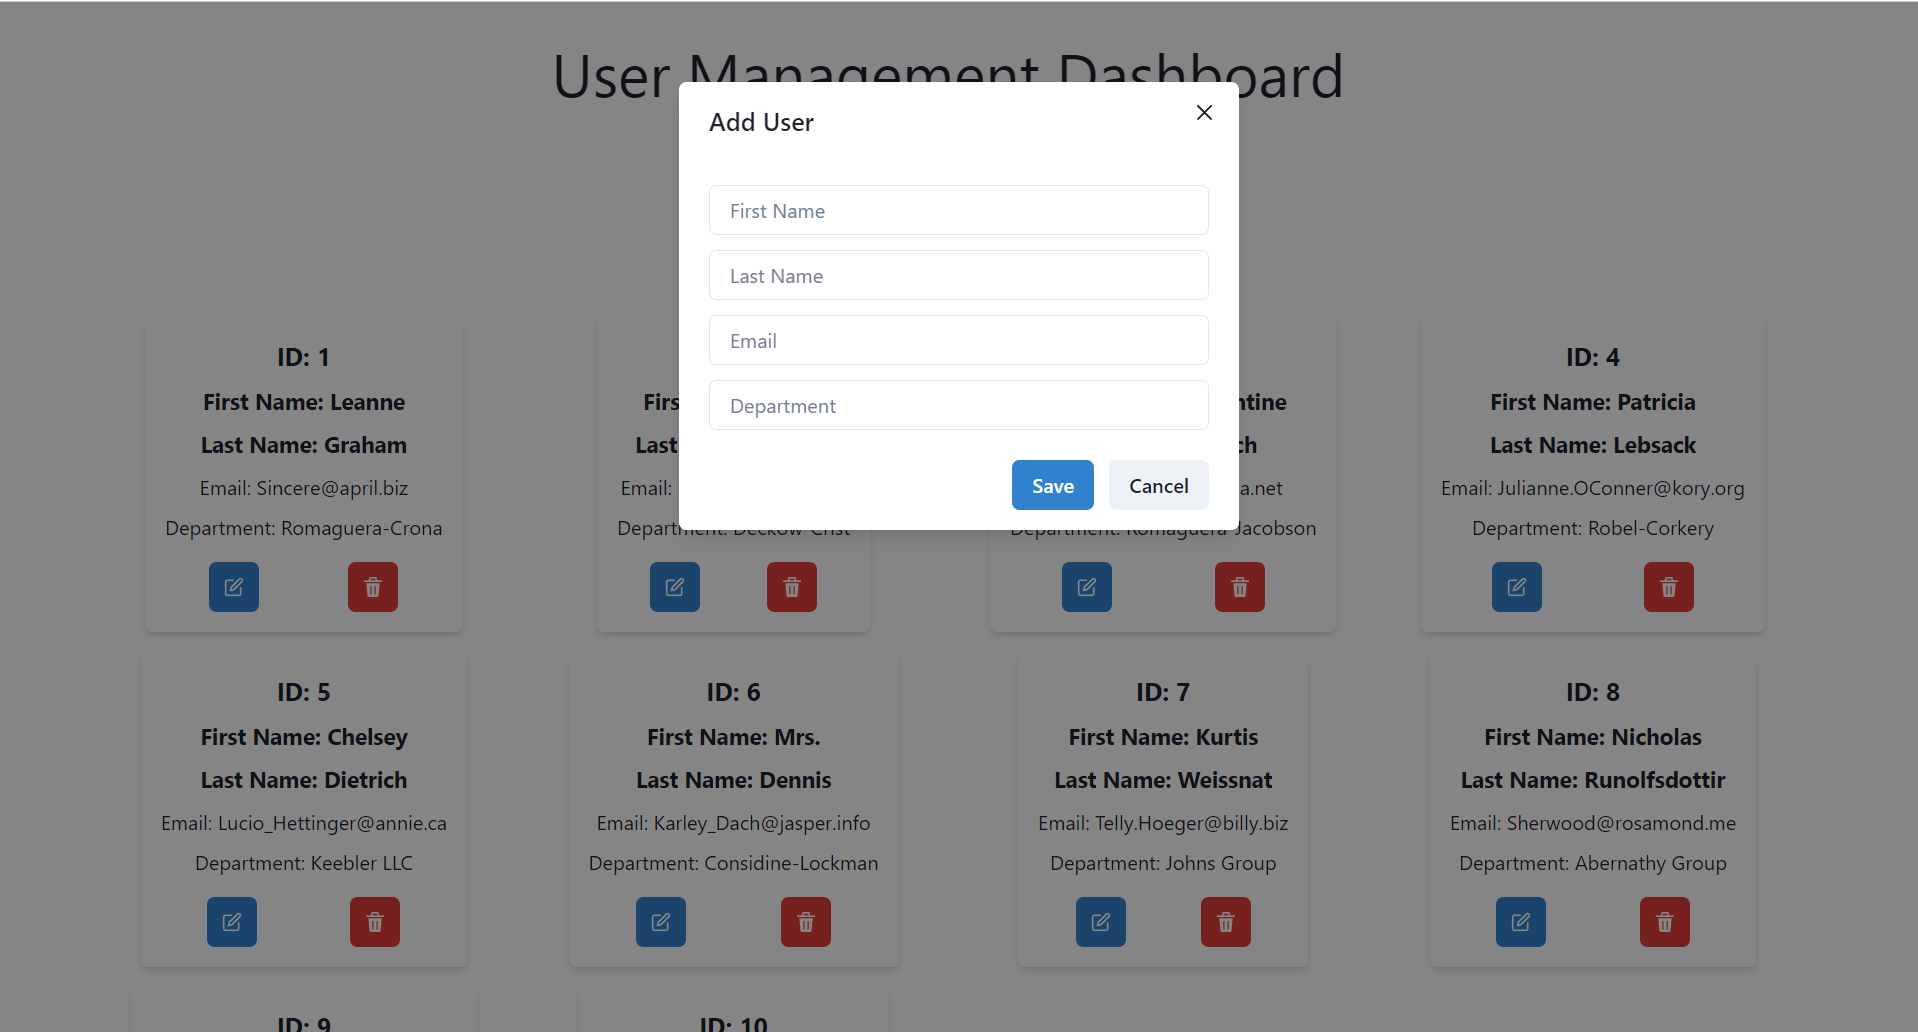
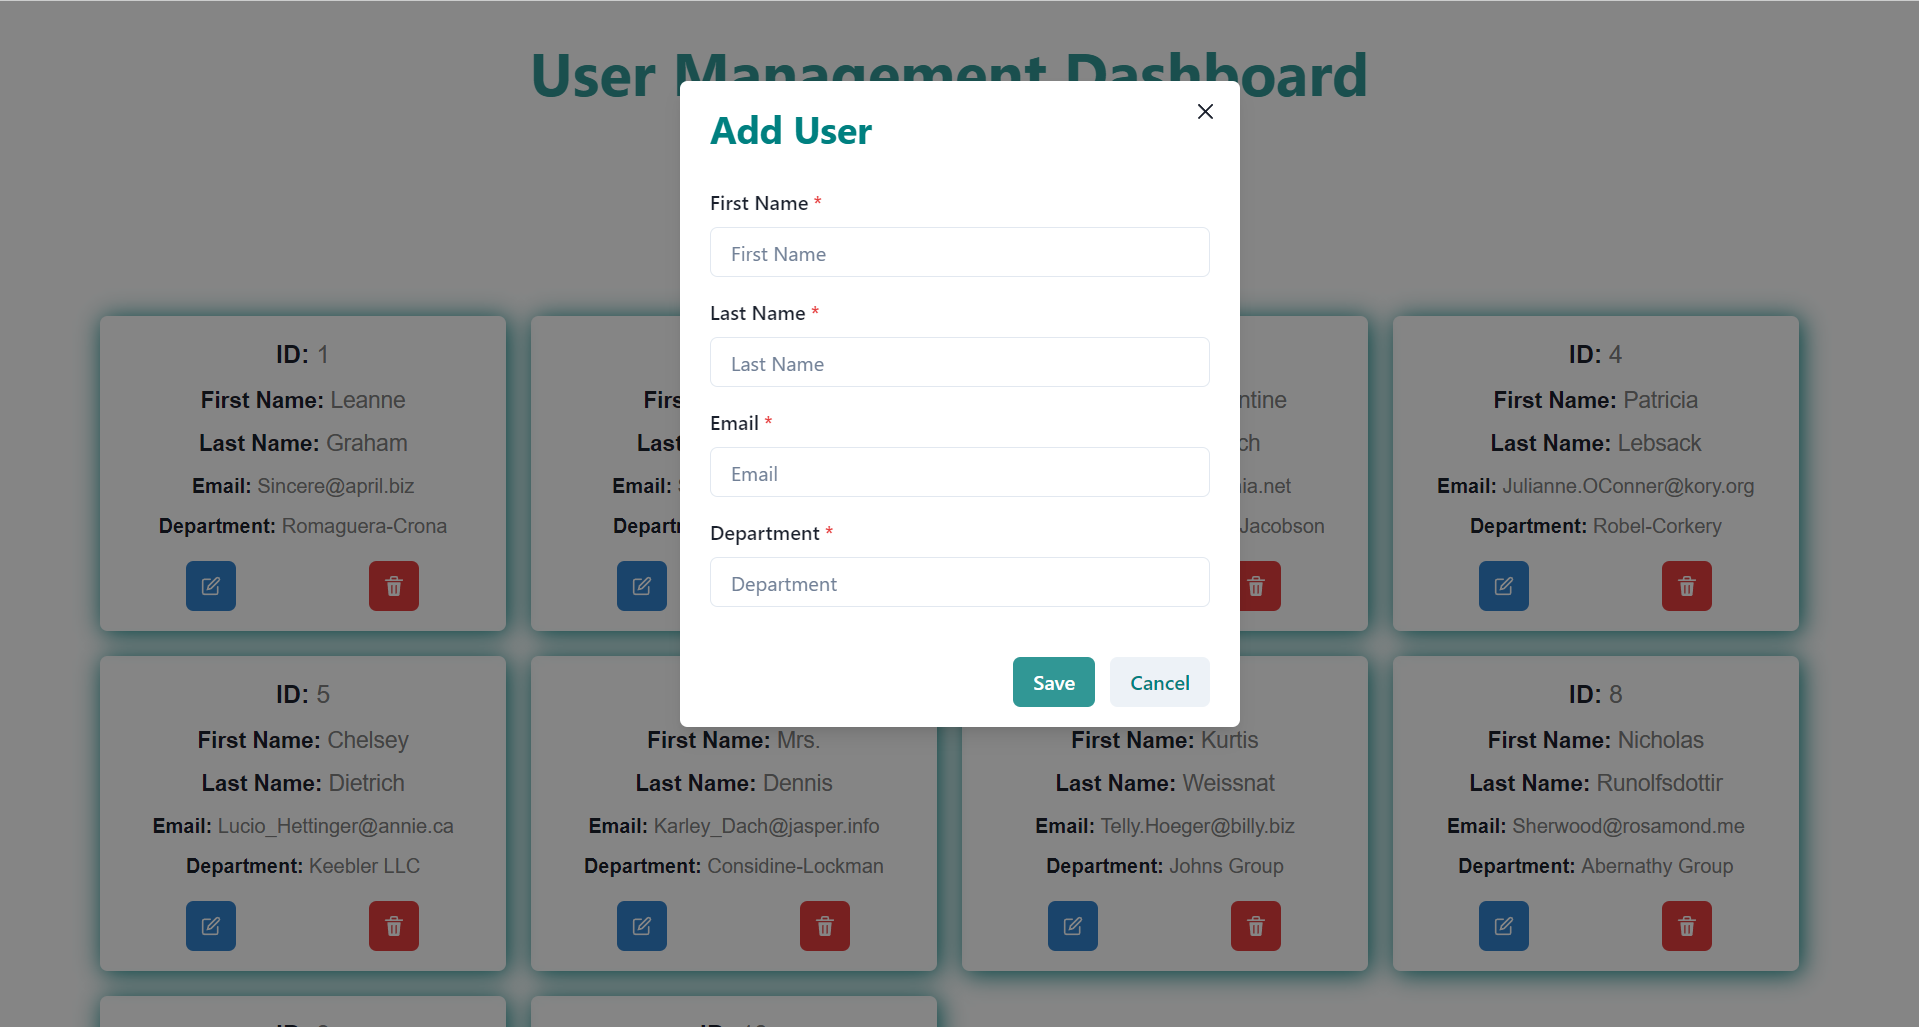
ui css and modal label added

diff --git a/user/src/components/UserModal.jsx b/user/src/components/UserModal.jsx
@@ -1,5 +1,20 @@
 import React, { useState } from 'react';
-import { Modal, ModalOverlay, ModalContent, ModalHeader, ModalFooter, ModalBody, ModalCloseButton, Input, Button, Spinner, FormControl, FormErrorMessage } from '@chakra-ui/react';
+import {
+  Modal,
+  ModalOverlay,
+  ModalContent,
+  ModalHeader,
+  ModalFooter,
+  ModalBody,
+  ModalCloseButton,
+  Input,
+  Button,
+  Spinner,
+  FormControl,
+  FormErrorMessage,
+  FormLabel,
+  Text,
+} from '@chakra-ui/react';
 
 const UserModal = ({ isOpen, onClose, onSubmit, user }) => {
   const [firstName, setFirstName] = useState(user ? user.name.split(" ")[0] : '');
@@ -57,31 +72,43 @@ const UserModal = ({ isOpen, onClose, onSubmit, user }) => {
     <Modal isOpen={isOpen} onClose={onClose}>
       <ModalOverlay />
       <ModalContent>
-        <ModalHeader>{user ? 'Edit User' : 'Add User'}</ModalHeader>
+        <ModalHeader fontWeight={"700"} fontSize={30} textColor={'teal'}>{user ? 'Edit User' : 'Add User'}</ModalHeader>
         <ModalCloseButton />
         <ModalBody>
-          <FormControl isInvalid={errors.firstName}>
-            <Input value={firstName} onChange={(e) => setFirstName(e.target.value)} placeholder="First Name" mt={3} />
+          <FormControl isRequired isInvalid={errors.firstName} mb={4}>
+            <FormLabel>
+              First Name<Text as="span" color="red"></Text>
+            </FormLabel>
+            <Input textColor={'teal'} value={firstName} onChange={(e) => setFirstName(e.target.value)} placeholder="First Name" />
             <FormErrorMessage>{errors.firstName}</FormErrorMessage>
           </FormControl>
-          <FormControl isInvalid={errors.lastName}>
-            <Input value={lastName} onChange={(e) => setLastName(e.target.value)} placeholder="Last Name" mt={3} />
+          <FormControl isRequired isInvalid={errors.lastName} mb={4}>
+            <FormLabel>
+              Last Name<Text as="span" color="red"></Text>
+            </FormLabel>
+            <Input textColor={'teal'} value={lastName} onChange={(e) => setLastName(e.target.value)} placeholder="Last Name" />
             <FormErrorMessage>{errors.lastName}</FormErrorMessage>
           </FormControl>
-          <FormControl isInvalid={errors.email}>
-            <Input value={email} onChange={(e) => setEmail(e.target.value)} placeholder="Email" mt={3} />
+          <FormControl isRequired isInvalid={errors.email} mb={4}>
+            <FormLabel>
+              Email<Text as="span" color="red"></Text>
+            </FormLabel>
+            <Input textColor={'teal'} value={email} onChange={(e) => setEmail(e.target.value)} placeholder="Email" />
             <FormErrorMessage>{errors.email}</FormErrorMessage>
           </FormControl>
-          <FormControl isInvalid={errors.department}>
-            <Input value={department} onChange={(e) => setDepartment(e.target.value)} placeholder="Department" mt={3} />
+          <FormControl isRequired isInvalid={errors.department} mb={4}>
+            <FormLabel>
+              Department<Text as="span" color="red"></Text>
+            </FormLabel>
+            <Input textColor={'teal'} value={department} onChange={(e) => setDepartment(e.target.value)} placeholder="Department" />
             <FormErrorMessage>{errors.department}</FormErrorMessage>
           </FormControl>
         </ModalBody>
         <ModalFooter>
-          <Button colorScheme="blue" mr={3} onClick={handleSubmit} disabled={isLoading}>
-            {isLoading ? <Spinner size="sm" /> : 'Save'}
+          <Button colorScheme="teal" mr={3} onClick={handleSubmit} isLoading={isLoading}>
+            Save
           </Button>
-          <Button onClick={onClose}>Cancel</Button>
+          <Button onClick={onClose} textColor={'teal'}>Cancel</Button>
         </ModalFooter>
       </ModalContent>
     </Modal>

diff --git a/user/src/components/UserListItem.jsx b/user/src/components/UserListItem.jsx
@@ -12,13 +12,13 @@ const UserListItem = ({ user, onEdit, onDelete }) => {
   };
 
   return (
-    <Box p={4} borderRadius="md" boxShadow="md" _hover={{ shadow: 'lg', cursor: 'pointer', bg: 'gray.200' }}>
-      <Flex direction="column" align={'center'}>
-        <Text fontWeight="bold" fontSize="xl" mb={2}>ID: {user.id}</Text>
-        <Text fontWeight="bold" fontSize="lg" mb={2}>First Name: {user.name.split(" ")[0]}</Text>
-        <Text fontWeight="bold" fontSize="lg" mb={2}>Last Name: {user.name.split(" ")[1]}</Text>
-        <Text fontSize="md" mb={2}>Email: {user.email}</Text>
-        <Text fontSize="md" mb={4}>Department: {user.company.name}</Text>
+    <Box p={4} borderRadius="md" boxShadow="2px 2px 20px teal" _hover={{ shadow: '2px 2px 20px brown', cursor: 'pointer', bg: 'gray.200' }}>
+      <Flex direction="column" align="center">
+        <Text fontWeight="bold" fontSize="xl" mb={2} fontFamily="Arial">ID: <Text as="span" fontWeight="normal" color="grey" >{user.id}</Text></Text>
+        <Text fontWeight="bold" fontSize="lg" mb={2} fontFamily="Arial">First Name: <Text as="span" fontWeight="normal" color="grey" >{user.name.split(" ")[0]}</Text></Text>
+        <Text fontWeight="bold" fontSize="lg" mb={2} fontFamily="Arial">Last Name: <Text as="span" fontWeight="normal" color="grey" >{user.name.split(" ")[1]}</Text></Text>
+        <Text fontWeight="bold" fontSize="md" mb={2} fontFamily="Arial">Email: <Text as="span" fontWeight="normal" color="grey" >{user.email}</Text></Text>
+        <Text fontWeight="bold" fontSize="md" mb={4} fontFamily="Arial">Department: <Text as="span" fontWeight="normal" color="grey" >{user.company.name}</Text></Text>
         <Flex justify="space-around" w="100%">
           <IconButton
             icon={<EditIcon />}

diff --git a/user/src/components/UserList.jsx b/user/src/components/UserList.jsx
@@ -153,9 +153,9 @@ const UserList = () => {
 
   return (
     <>
-      <Text align={'center'} fontSize="xxx-large" pt={5}>User Management Dashboard</Text>
+<Text align={'center'} fontSize="xxx-large" pt={5} fontWeight="bold" color="teal.500">User Management Dashboard</Text>
       <Flex justifyContent="center">
-      <Button colorScheme="green" onClick={() => openModal()} mt={10} align>Add User</Button>
+        <Button textColor={'teal'} colorScheme="white" onClick={() => openModal()} mt={10} border={"1px solid teal"}>Add User</Button>
       </Flex>
       <Grid templateColumns="repeat(auto-fill, minmax(300px, 1fr))" gap={5} m={20} justifyContent={'center'}>
         {users.length === 0 ? (

diff --git a/user/README.md b/user/README.md
@@ -9,7 +9,7 @@ Frontend
 
 ## Deplolyed App
 
-![Click here to visit website](https://user-rho-eight.vercel.app/)
+[Click here to visit website](https://user-rho-eight.vercel.app/)
 
 ## Directory Structure
 user/
@@ -26,7 +26,7 @@ user/
 
 ## Video Walkthrough of the project
 
-![Click here to open the video](https://drive.google.com/file/d/15Be3c8RmQCd9ftz6CxcLpzIF1W2LDzgg/view?usp=sharing)
+[Click here to open the video](https://drive.google.com/file/d/15Be3c8RmQCd9ftz6CxcLpzIF1W2LDzgg/view?usp=sharing)
 
 ## Features
 List out the key features of your application.
@@ -59,6 +59,8 @@ npm start
 ![Add user modal](./src/assets/Add_modal.png)
 
 ![Edit user modal](./src/assets/Edit_modal.png)
+
+![Mobile Screen](./src/assets/Mobile_screen.png)
 
 ## APIs Used
 

diff --git a/README.md b/README.md
@@ -60,6 +60,8 @@ npm start
 
 ![Edit user modal](./user/src/assets/Edit_modal.png)
 
+![Mobile Screen](./user/src/assets/Mobile_screen.png)
+
 ## APIs Used
 
 https://jsonplaceholder.typicode.com/
